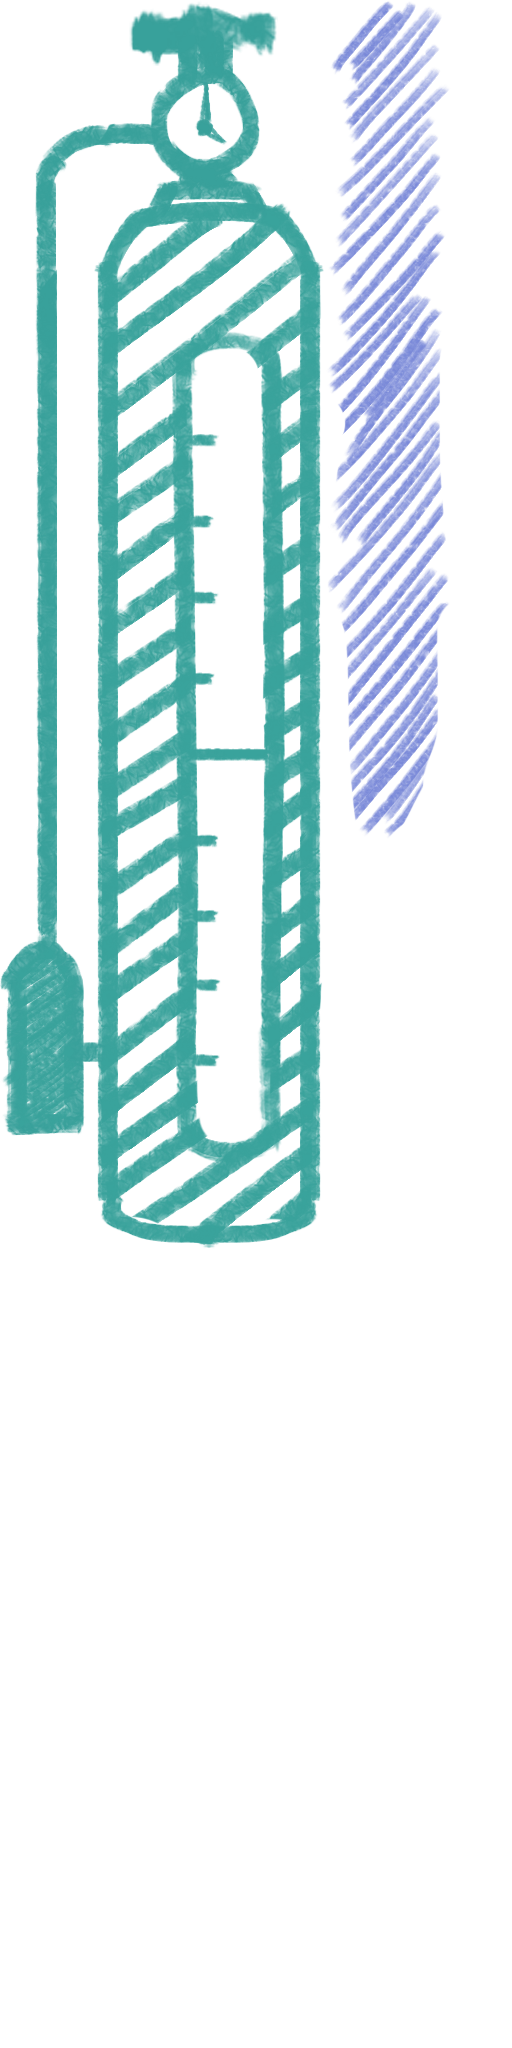
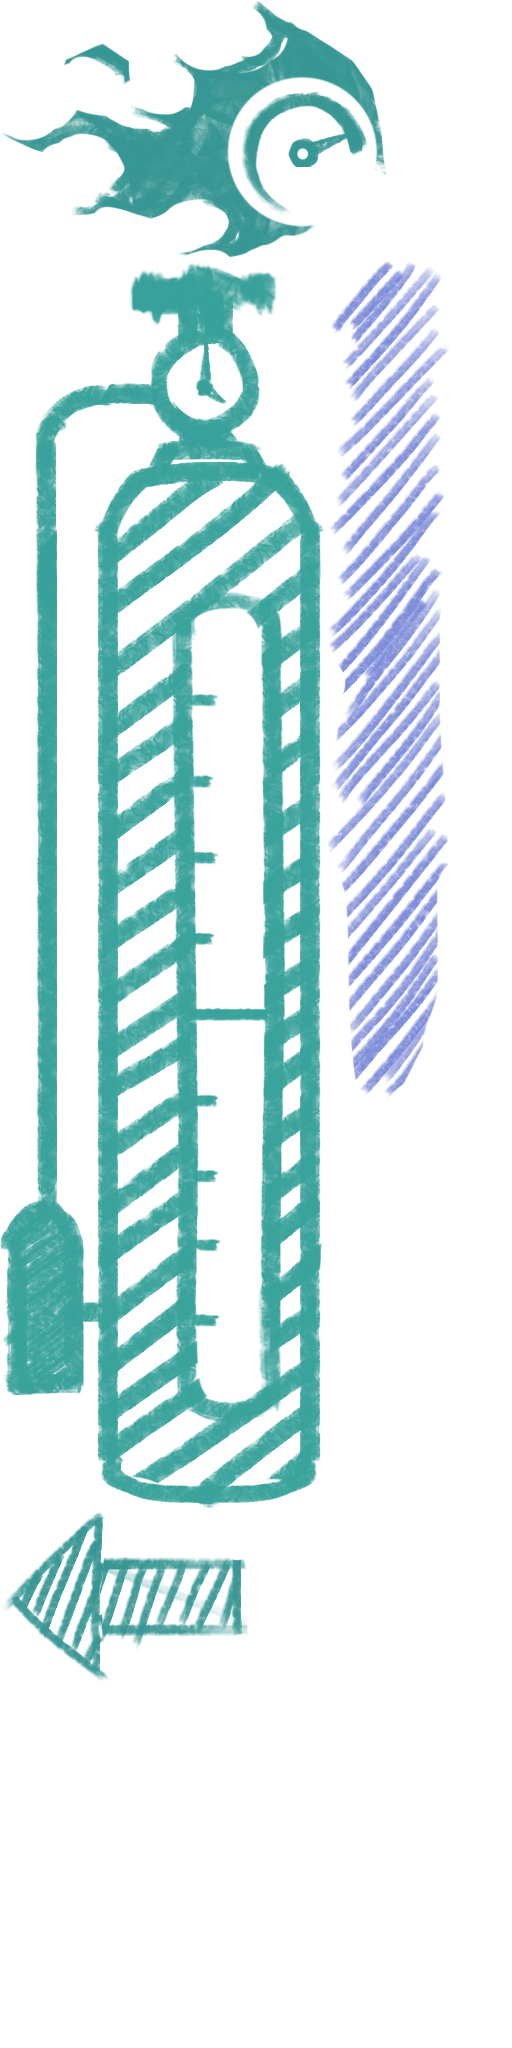
no commit message

Changed region(s): [[0.0, 0.0, 0.875, 0.8438]]

diff --git a/workspace/Family/src/module/mainUI/ModuleMainUI.ts b/workspace/Family/src/module/mainUI/ModuleMainUI.ts
@@ -19,18 +19,21 @@ class ModuleMainUI {
 		this.btnRestart.visible = false;
 		this.btnLeft = this.mainUI.getChild("btnLeft").asButton;
 		this.btnLeft.addEventListener(egret.TouchEvent.TOUCH_BEGIN,this.onBtnLeftDown,this);
-		this.btnLeft.addEventListener(egret.TouchEvent.TOUCH_BEGIN,this.onBtnLeftUp,this);
+		this.btnLeft.addEventListener(egret.TouchEvent.TOUCH_END,this.onBtnLeftUp,this);
 		this.btnRight = this.mainUI.getChild("btnRight").asButton;
 		this.btnRight.addEventListener(egret.TouchEvent.TOUCH_BEGIN,this.onBtnRightDown,this);
-		this.btnRight.addEventListener(egret.TouchEvent.TOUCH_BEGIN,this.onBtnRightUp,this);
+		this.btnRight.addEventListener(egret.TouchEvent.TOUCH_END,this.onBtnRightUp,this);
 		this.btnSpeed = this.mainUI.getChild("btnSpeed").asButton;
 		this.btnSpeed.addEventListener(egret.TouchEvent.TOUCH_BEGIN,this.onBtnSpeedDown,this);
-		this.btnSpeed.addEventListener(egret.TouchEvent.TOUCH_BEGIN,this.onBtnSpeedUp,this);
+		this.btnSpeed.addEventListener(egret.TouchEvent.TOUCH_END,this.onBtnSpeedUp,this);
+		this.showProgress(80);
+		this.showPoint(0);
 	}
 
 	private onBtnLeftDown():void {
 		PlayerInput.leftDown = true;
 		PlayerInput.rightDown = false;
+		console.log("leftDownbtn",PlayerInput.leftDown);
 	}
 
 	private onBtnLeftUp():void {
@@ -60,9 +63,21 @@ class ModuleMainUI {
 		GameModule.scene.resetScene();
 
 		this.btnRestart.visible = false;
+		PlayerManager.inst.player.playerVo.oxygen = 80;
 		egret.setTimeout(() => {
-			PlayerManager.inst.player.playerObject._speed = 5;
+			PlayerManager.inst.player.playerVo.isAlive = true;
+			PlayerManager.inst.player.playerVo.points = 0;
+			this.showPoint(0);
+			
 		},this,3000)
+	}
+
+	public showProgress(value:number):void {
+		this.hpBar.value = value;
+	}
+
+	public showPoint(value:number):void {
+		this.lblScore.text = value.toString();
 	}
 	
 	public onShow():void {

diff --git a/workspace/Family/src/player/Player.ts b/workspace/Family/src/player/Player.ts
@@ -16,27 +16,36 @@ class Player {
 	}
 
 	public updateFrame():void {
-		this.excuteInput();//处理输入
-		this.playerObject.updateFrame();
-		this.textHit();
+		if(this.playerVo.isAlive) {
+			this.excuteInput();//处理输入
+			this.playerObject.updateFrame();
+			this.textHit();
+		}
 	}
 
 	public excuteInput():void{
 		if(PlayerInput.speedDonw) {
-
+			this.playerObject._speed = 15;
+		}else {
+			this.playerObject._speed = 5;
 		}
 
 		if(PlayerInput.leftDown) {
 			PlayerInput.rightDown = false;
 			this.playerObject.turnRightOn = false;
 			this.playerObject.turnLeftOn = true;
-		}
-		
-		if(PlayerInput.rightDown) {
+		}else if(PlayerInput.rightDown) {
 			PlayerInput.leftDown = false;
 			this.playerObject.turnLeftOn = false;
 			this.playerObject.turnRightOn = true;
+		}else {
+			PlayerInput.leftDown = false;
+			PlayerInput.rightDown = false;
+			this.playerObject.turnLeftOn = false;
+			this.playerObject.turnRightOn = false;
 		}
+		
+		console.log("turnlefton",this.playerObject.turnLeftOn,"turnleftoff",this.playerObject.turnRightOn);
 	}
 
 	public textHit():boolean {
@@ -58,11 +67,17 @@ class Player {
 	}
 
 	public roleHiting(role:Role):void {
+		this.playerVo.points += 100;
+		GameModule.mainUI.showPoint(this.playerVo.points);
 		GameModel.roles.removeRole(role.roleVo);
 	}
 
 	public playerHiting():void {
-		this.playerObject._speed = 0;
+		this.killPlayer();
+	}
+
+	public killPlayer():void {
+		this.playerVo.isAlive = false;
 		GameModule.mainUI.btnRestart.visible = true;
 	}
 

diff --git a/workspace/Family/src/module/scene/ModuleScene/ModuleScene.ts b/workspace/Family/src/module/scene/ModuleScene/ModuleScene.ts
@@ -37,6 +37,7 @@ class ModuleScene extends egret.EventDispatcher {
 		var player:Player = new Player();
 		player.playerObject = playerObject;
 		player.playerVo = playerVo;
+		playerVo.isAlive = true;
 		PlayerManager.inst.setPlayer(player);
 	}
 
@@ -95,6 +96,13 @@ class ModuleScene extends egret.EventDispatcher {
 	private onTimeFunc():void {
 		// this.addRole();
 		GameModule.mainUI.onChangePos();
+		if(PlayerManager.inst.player.playerVo.isAlive) {
+			PlayerManager.inst.player.playerVo.oxygen -= 2;
+			GameModule.mainUI.showProgress(PlayerManager.inst.player.playerVo.oxygen);
+		}
+		if(PlayerManager.inst.player.playerVo.oxygen <= 0) {
+			PlayerManager.inst.player.killPlayer();
+		}
 	}
 
 	private onEnterFrame(event:egret.Event):void {

diff --git a/workspace/Family/src/model/player/PlayerVo.ts b/workspace/Family/src/model/player/PlayerVo.ts
@@ -7,8 +7,19 @@ class PlayerVo {
 	public points:number; //得分
 	
 	// 逻辑属性
-	public isAlive:boolean;
+	private _isAlive:boolean;
 
+	public get isAlive():boolean {
+		return this._isAlive;
+	}
+
+	public set isAlive(value:boolean) {
+		if(value == true) {
+			this.oxygen = 100;
+			this.points = 0;
+		}
+		this._isAlive = value;
+	}
 
 	public setPosition(positionX:number,positionY:number):void {
 		this.positionX = positionX;

diff --git a/workspace/Family/src/module/scene/Joystick.ts b/workspace/Family/src/module/scene/Joystick.ts
@@ -18,6 +18,7 @@ class Joystick extends PageBase {
         if(LayerManager.root) {
             LayerManager.root.stage.addEventListener(egret.TouchEvent.TOUCH_TAP, this.onTouch, this);
         }
+        this._view.visible = false;
     }
 
     private onTouch(e: egret.TouchEvent): void {

diff --git a/workspace/Family/src/module/GameModule.ts b/workspace/Family/src/module/GameModule.ts
@@ -26,7 +26,7 @@ class GameModule {
 		GameModule.role.onShow();
         GameModule.scene.onShow();
 		GameModule.mainUI.onShow();
-        GameModule.joystick.show();
+        // GameModule.joystick.show();
 	}
 
 	public static showTitle(): void {

diff --git a/workspace/Family/src/player/PlayerObject.ts b/workspace/Family/src/player/PlayerObject.ts
@@ -53,9 +53,9 @@ class PlayerObject extends egret.Sprite{
 
 	public excuteTurn():void {
 		if (this.turnLeftOn) {
-			this.rotation--;
+			this.rotation -= 5;
 		} else if (this.turnRightOn) {
-			this.rotation++;
+			this.rotation += 5;
 		}
 	}
 

diff --git a/workspace/Family/src/model/roles/RoleVo.ts b/workspace/Family/src/model/roles/RoleVo.ts
@@ -1,5 +1,5 @@
 class RoleVo {
-	private _isAlive:boolean;
+	public _isAlive:boolean;
 	public positionX :number;
 	public positionY:number;
 
